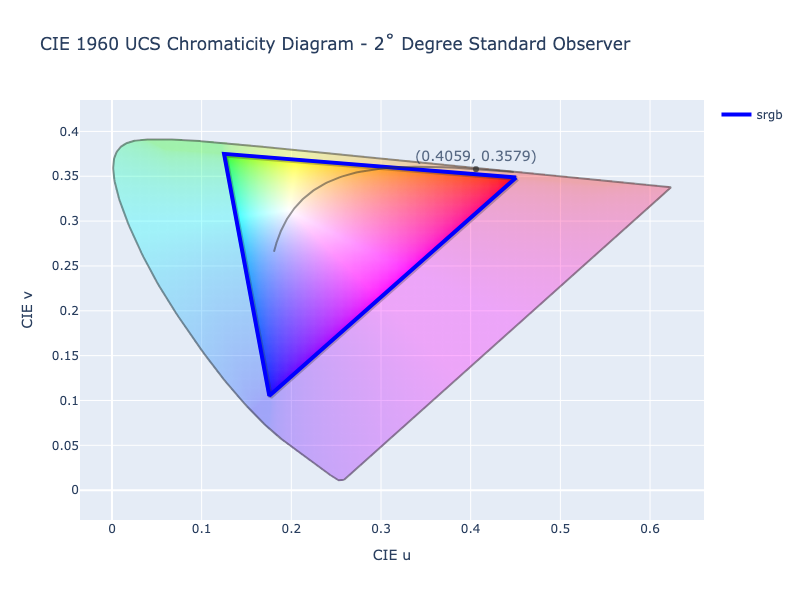
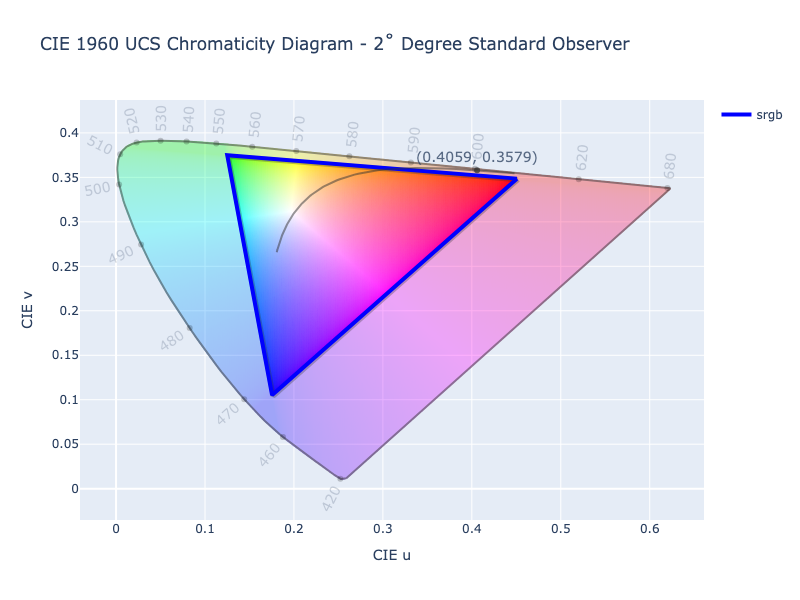
Ensure temp related plotting is relative to the chromaticity coords

diff --git a/tools/cie_diagrams.py b/tools/cie_diagrams.py
@@ -701,6 +701,7 @@ def cie_diagram(
             temp, duv = (float(v) for v in value.split(':'))
             c = Color.blackbody('xyz-d65', temp, duv, scale=False, method=opt.cct)
             bu, bv = c.split_chromaticity(opt.chromaticity, white=opt.white)[:-1]
+            bu, bv = convert_chromaticity((bu, bv), opt)
             annot.append(f'({round(bu, 4)}, {round(bv, 4)})')
             bx.append(bu)
             by.append(bv)
@@ -747,6 +748,7 @@ def cie_diagram(
                 for duv in duv_range:
                     c = Color.blackbody('xyz-d65', kelvin, duv, scale=False, method=opt.cct)
                     bu, bv = c.split_chromaticity(opt.chromaticity, white=opt.white)[:-1]
+                    bu, bv = convert_chromaticity((bu, bv), opt)
                     duvx.append(bu)
                     duvy.append(bv)
 
@@ -773,7 +775,6 @@ def cie_diagram(
                     showarrow=False
                 )
 
-                duvx, duvy = [*zip(*[convert_chromaticity((bu, bv), opt) for bu, bv in zip(duvx, duvy)])]
                 fig.add_traces(data=go.Scatter(
                     x=duvx,
                     y=duvy,
